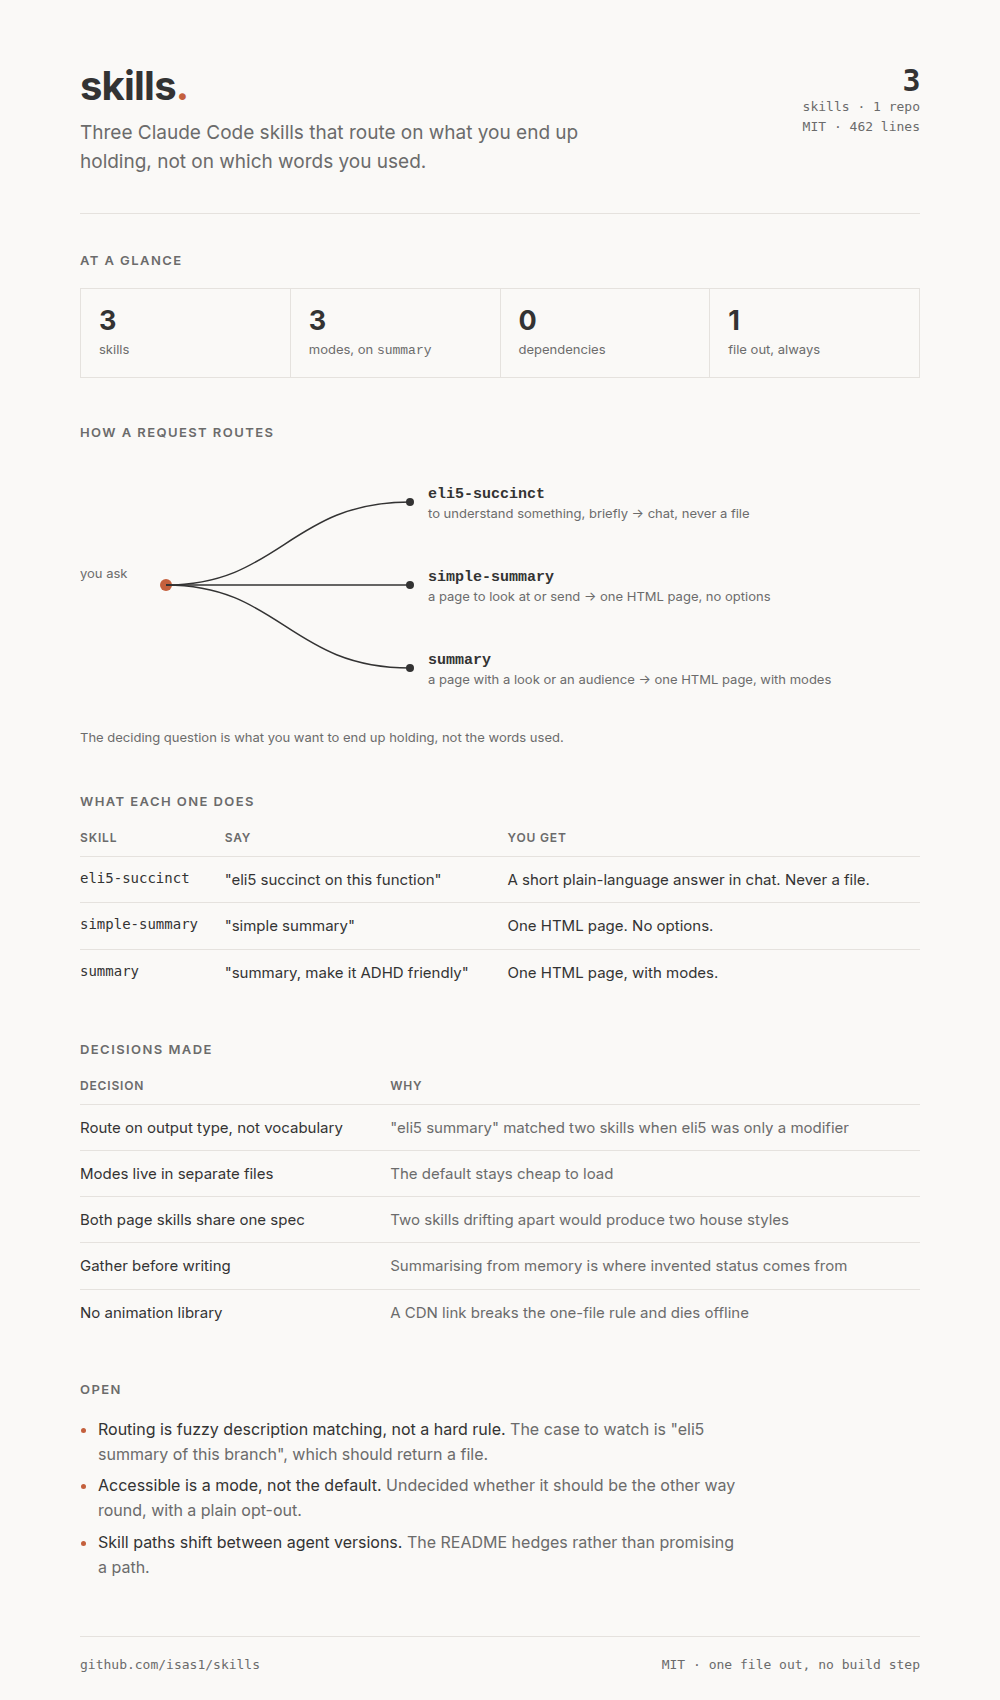
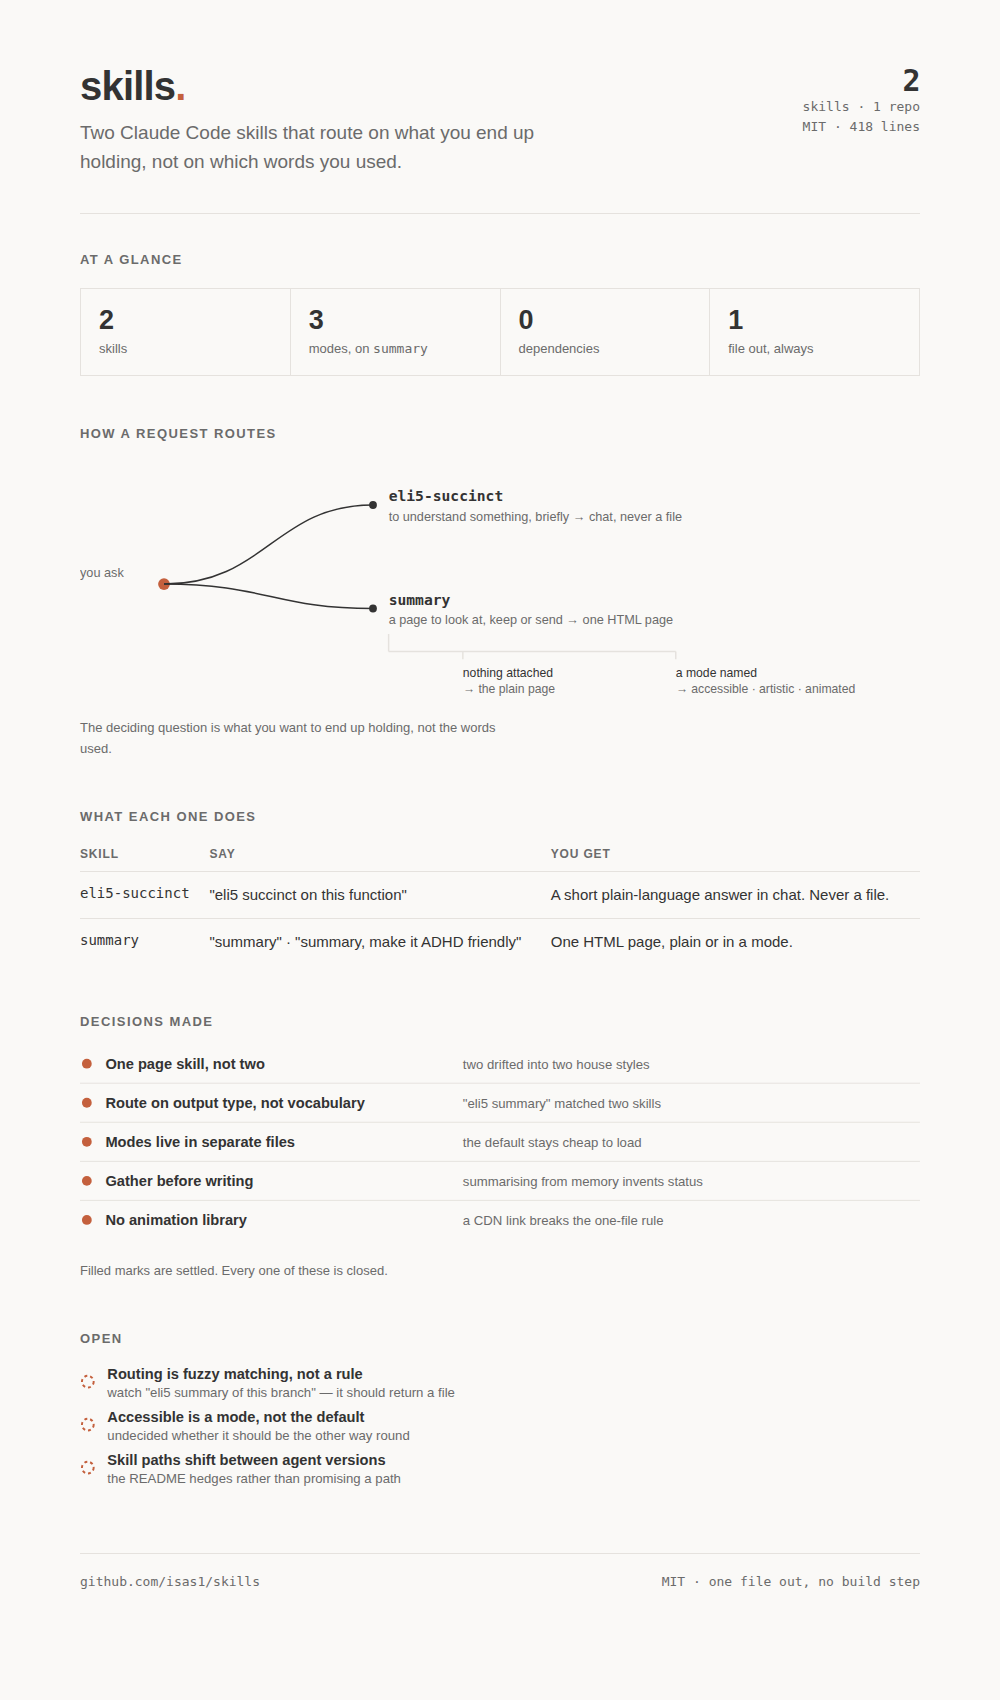
Refresh the example summary page for the two-skill layout
The README was updated when simple-summary merged into summary, but
docs/example-summary.html and its PNG were not. The page still said
"three skills", routed requests to simple-summary, and listed a
decision ("both page skills share one spec") that no longer exists.

Rebuild the page against the current repo and the current page spec:

- two skills, not three; summary now owns plain and moded asks alike,
  shown as a second branch under summary rather than a third skill
- "one page skill, not two" replaces the stale shared-spec decision
- line count refreshed to 418
- decisions and open items become mark rows instead of tables, so the
  page stops at one table and meets its own visual budget

PNG re-rendered from the HTML at 1000px wide.

Claude-Session: https://claude.ai/code/session_01YYGNUPXqemTCYjbvL19zYz

diff --git a/docs/example-summary.html b/docs/example-summary.html
@@ -6,29 +6,26 @@
 :root{
   --bg:#FAF9F7; --ink:#333333; --muted:#6B6B6B; --line:#E5E2DE;
   --surface:#F2EFEB; --accent:#C4603D;
-  --sans:-apple-system,BlinkMacSystemFont,"Segoe UI",Inter,Roboto,"Helvetica Neue",Arial,sans-serif;
-  --mono:ui-monospace,SFMono-Regular,"SF Mono",Menlo,Consolas,"DejaVu Sans Mono",monospace;
+  --sans:-apple-system,BlinkMacSystemFont,"Segoe UI",Roboto,"Noto Sans","Liberation Sans",Helvetica,Arial,sans-serif;
+  --mono:ui-monospace,"SF Mono","Cascadia Code","Roboto Mono","DejaVu Sans Mono",Menlo,Consolas,monospace;
 }
 *{box-sizing:border-box}
 body{margin:0;background:var(--bg);color:var(--ink);font-family:var(--sans);
      font-size:16px;line-height:1.55;-webkit-font-smoothing:antialiased}
 .page{max-width:920px;margin:0 auto;padding:64px 40px 80px}
-.measure{max-width:65ch}
 
-/* Z: title left, key fact right */
 .top{display:flex;justify-content:space-between;align-items:flex-start;gap:40px;flex-wrap:wrap}
 h1{font-size:40px;line-height:1.1;letter-spacing:-.02em;margin:0 0 10px;font-weight:700}
 h1 .dot{color:var(--accent)}
-.lede{font-size:19px;color:var(--muted);margin:0;max-width:46ch}
+.lede{font-size:19px;color:var(--muted);margin:0;max-width:44ch}
 .stamp{font-family:var(--mono);font-size:13px;color:var(--muted);text-align:right;white-space:nowrap}
 .stamp b{display:block;font-size:30px;color:var(--ink);font-weight:700;letter-spacing:-.02em;line-height:1.1}
 hr{border:0;border-top:1px solid var(--line);margin:36px 0}
 
 h2{font-size:13px;letter-spacing:.11em;text-transform:uppercase;color:var(--muted);
    font-weight:600;margin:0 0 18px}
-section{margin-top:44px}
+section{margin-top:48px}
 
-/* at a glance */
 .facts{display:grid;grid-template-columns:repeat(4,1fr);gap:1px;background:var(--line);
        border:1px solid var(--line)}
 .fact{background:var(--bg);padding:16px 18px}
@@ -36,25 +33,20 @@ section{margin-top:44px}
 .fact .l{font-size:13px;color:var(--muted);margin-top:3px}
 
 figure{margin:0}
-figcaption{font-size:13px;color:var(--muted);margin-top:10px}
+figcaption{font-size:13px;color:var(--muted);margin-top:10px;max-width:60ch}
+svg{display:block;max-width:100%;height:auto}
 
 table{border-collapse:collapse;width:100%;font-size:15px}
 th{text-align:left;font-size:12px;letter-spacing:.07em;text-transform:uppercase;
    color:var(--muted);font-weight:600;padding:0 14px 8px 0;border-bottom:1px solid var(--line)}
 td{padding:11px 14px 11px 0;border-bottom:1px solid var(--line);vertical-align:top}
 td.k{font-family:var(--mono);font-size:14px;white-space:nowrap}
-td.why{color:var(--muted)}
 tr:last-child td{border-bottom:0}
 
-ul{margin:0;padding-left:18px}
-li{margin-bottom:7px}
-li::marker{color:var(--accent)}
-.open li{color:var(--ink)}
-.open li span{color:var(--muted)}
-
-.foot{margin-top:56px;padding-top:18px;border-top:1px solid var(--line);
+.foot{margin-top:60px;padding-top:18px;border-top:1px solid var(--line);
       display:flex;justify-content:space-between;font-size:13px;color:var(--muted);
       font-family:var(--mono);gap:20px;flex-wrap:wrap}
+@media print{body{background:#fff}section{page-break-inside:avoid}}
 @media (max-width:720px){
   .page{padding:40px 20px 56px}
   .facts{grid-template-columns:repeat(2,1fr)}
@@ -67,9 +59,9 @@ li::marker{color:var(--accent)}
   <div class="top">
     <div>
       <h1>skills<span class="dot">.</span></h1>
-      <p class="lede">Three Claude Code skills that route on what you end up holding, not on which words you used.</p>
+      <p class="lede">Two Claude Code skills that route on what you end up holding, not on which words you used.</p>
     </div>
-    <div class="stamp"><b>3</b>skills · 1 repo<br>MIT · 462 lines</div>
+    <div class="stamp"><b>2</b>skills · 1 repo<br>MIT · 418 lines</div>
   </div>
 
   <hr>
@@ -77,7 +69,7 @@ li::marker{color:var(--accent)}
   <section style="margin-top:0">
     <h2>At a glance</h2>
     <div class="facts">
-      <div class="fact"><div class="n">3</div><div class="l">skills</div></div>
+      <div class="fact"><div class="n">2</div><div class="l">skills</div></div>
       <div class="fact"><div class="n">3</div><div class="l">modes, on <code>summary</code></div></div>
       <div class="fact"><div class="n">0</div><div class="l">dependencies</div></div>
       <div class="fact"><div class="n">1</div><div class="l">file out, always</div></div>
@@ -87,23 +79,29 @@ li::marker{color:var(--accent)}
   <section>
     <h2>How a request routes</h2>
     <figure>
-      <svg viewBox="0 0 840 250" width="100%" role="img"
-           aria-label="One request branches to three skills: eli5-succinct returns a chat answer, simple-summary returns one page, summary returns one page with modes.">
-        <g font-family="-apple-system,BlinkMacSystemFont,Segoe UI,Inter,sans-serif">
+      <svg viewBox="0 0 860 252" role="img"
+           aria-label="One request branches two ways. eli5-succinct returns a chat answer and never a file. summary returns one HTML page: plain when nothing is attached, or in accessible, artistic or animated mode when a mode is named.">
+        <g font-family="-apple-system,BlinkMacSystemFont,Segoe UI,Roboto,Helvetica,Arial,sans-serif">
           <text x="0" y="118" font-size="13" fill="#6B6B6B">you ask</text>
           <circle cx="86" cy="125" r="6" fill="#C4603D"/>
-          <path d="M86 125 C 200 125, 210 42, 330 42"  stroke="#333" stroke-width="1.5" fill="none"/>
-          <path d="M86 125 C 200 125, 210 125, 330 125" stroke="#333" stroke-width="1.5" fill="none"/>
-          <path d="M86 125 C 200 125, 210 208, 330 208" stroke="#333" stroke-width="1.5" fill="none"/>
-          <circle cx="330" cy="42" r="4" fill="#333"/>
-          <circle cx="330" cy="125" r="4" fill="#333"/>
-          <circle cx="330" cy="208" r="4" fill="#333"/>
-          <text x="348" y="38"  font-size="15" font-weight="600" fill="#333" font-family="ui-monospace,Menlo,monospace">eli5-succinct</text>
-          <text x="348" y="58"  font-size="13" fill="#6B6B6B">to understand something, briefly → chat, never a file</text>
-          <text x="348" y="121" font-size="15" font-weight="600" fill="#333" font-family="ui-monospace,Menlo,monospace">simple-summary</text>
-          <text x="348" y="141" font-size="13" fill="#6B6B6B">a page to look at or send → one HTML page, no options</text>
-          <text x="348" y="204" font-size="15" font-weight="600" fill="#333" font-family="ui-monospace,Menlo,monospace">summary</text>
-          <text x="348" y="224" font-size="13" fill="#6B6B6B">a page with a look or an audience → one HTML page, with modes</text>
+
+          <path d="M86 125 C 190 125, 200 44, 300 44"  stroke="#333" stroke-width="1.5" fill="none"/>
+          <path d="M86 125 C 190 125, 200 150, 300 150" stroke="#333" stroke-width="1.5" fill="none"/>
+          <circle cx="300" cy="44" r="4" fill="#333"/>
+          <circle cx="300" cy="150" r="4" fill="#333"/>
+
+          <text x="316" y="40" font-size="15" font-weight="600" fill="#333" font-family="ui-monospace,Menlo,Consolas,monospace">eli5-succinct</text>
+          <text x="316" y="60" font-size="13" fill="#6B6B6B">to understand something, briefly → chat, never a file</text>
+
+          <text x="316" y="146" font-size="15" font-weight="600" fill="#333" font-family="ui-monospace,Menlo,Consolas,monospace">summary</text>
+          <text x="316" y="166" font-size="13" fill="#6B6B6B">a page to look at, keep or send → one HTML page</text>
+
+          <path d="M316 176 L316 194 M316 194 L610 194 M392 194 L392 202 M610 194 L610 202"
+                stroke="#E5E2DE" stroke-width="1.5" fill="none"/>
+          <text x="392" y="220" font-size="12.5" fill="#333">nothing attached</text>
+          <text x="392" y="237" font-size="12.5" fill="#6B6B6B">→ the plain page</text>
+          <text x="610" y="220" font-size="12.5" fill="#333">a mode named</text>
+          <text x="610" y="237" font-size="12.5" fill="#6B6B6B">→ accessible · artistic · animated</text>
         </g>
       </svg>
       <figcaption>The deciding question is what you want to end up holding, not the words used.</figcaption>
@@ -115,30 +113,66 @@ li::marker{color:var(--accent)}
     <table>
       <tr><th>Skill</th><th>Say</th><th>You get</th></tr>
       <tr><td class="k">eli5-succinct</td><td>"eli5 succinct on this function"</td><td>A short plain-language answer in chat. Never a file.</td></tr>
-      <tr><td class="k">simple-summary</td><td>"simple summary"</td><td>One HTML page. No options.</td></tr>
-      <tr><td class="k">summary</td><td>"summary, make it ADHD friendly"</td><td>One HTML page, with modes.</td></tr>
+      <tr><td class="k">summary</td><td>"summary" · "summary, make it ADHD friendly"</td><td>One HTML page, plain or in a mode.</td></tr>
     </table>
   </section>
 
   <section>
     <h2>Decisions made</h2>
-    <table>
-      <tr><th>Decision</th><th>Why</th></tr>
-      <tr><td>Route on output type, not vocabulary</td><td class="why">"eli5 summary" matched two skills when eli5 was only a modifier</td></tr>
-      <tr><td>Modes live in separate files</td><td class="why">The default stays cheap to load</td></tr>
-      <tr><td>Both page skills share one spec</td><td class="why">Two skills drifting apart would produce two house styles</td></tr>
-      <tr><td>Gather before writing</td><td class="why">Summarising from memory is where invented status comes from</td></tr>
-      <tr><td>No animation library</td><td class="why">A CDN link breaks the one-file rule and dies offline</td></tr>
-    </table>
+    <figure>
+      <svg viewBox="0 0 860 206" role="img"
+           aria-label="Five settled decisions. One page skill, not two, because two drifted into two house styles. Route on output type, not vocabulary, because eli5 summary matched two skills. Modes live in separate files so the default stays cheap to load. Gather before writing, because summarising from memory invents status. No animation library, because a CDN link breaks the one-file rule.">
+        <g font-family="-apple-system,BlinkMacSystemFont,Segoe UI,Roboto,Helvetica,Arial,sans-serif">
+          <g fill="#C4603D">
+            <circle cx="7" cy="14" r="5"/><circle cx="7" cy="54" r="5"/><circle cx="7" cy="94" r="5"/>
+            <circle cx="7" cy="134" r="5"/><circle cx="7" cy="174" r="5"/>
+          </g>
+          <g font-size="15" fill="#333" font-weight="600">
+            <text x="26" y="19">One page skill, not two</text>
+            <text x="26" y="59">Route on output type, not vocabulary</text>
+            <text x="26" y="99">Modes live in separate files</text>
+            <text x="26" y="139">Gather before writing</text>
+            <text x="26" y="179">No animation library</text>
+          </g>
+          <g font-size="13.5" fill="#6B6B6B">
+            <text x="392" y="19">two drifted into two house styles</text>
+            <text x="392" y="59">"eli5 summary" matched two skills</text>
+            <text x="392" y="99">the default stays cheap to load</text>
+            <text x="392" y="139">summarising from memory invents status</text>
+            <text x="392" y="179">a CDN link breaks the one-file rule</text>
+          </g>
+          <g stroke="#E5E2DE">
+            <line x1="0" y1="34" x2="860" y2="34"/><line x1="0" y1="74" x2="860" y2="74"/>
+            <line x1="0" y1="114" x2="860" y2="114"/><line x1="0" y1="154" x2="860" y2="154"/>
+          </g>
+        </g>
+      </svg>
+      <figcaption>Filled marks are settled. Every one of these is closed.</figcaption>
+    </figure>
   </section>
 
-  <section class="open">
+  <section>
     <h2>Open</h2>
-    <ul class="measure">
-      <li>Routing is fuzzy description matching, not a hard rule. <span>The case to watch is "eli5 summary of this branch", which should return a file.</span></li>
-      <li>Accessible is a mode, not the default. <span>Undecided whether it should be the other way round, with a plain opt-out.</span></li>
-      <li>Skill paths shift between agent versions. <span>The README hedges rather than promising a path.</span></li>
-    </ul>
+    <figure>
+      <svg viewBox="0 0 860 128" role="img"
+           aria-label="Three open questions. Routing is fuzzy description matching, not a hard rule: the case to watch is eli5 summary of this branch, which should return a file. Accessible is a mode, not the default, and it is undecided whether that should be reversed. Skill paths shift between agent versions, so the README hedges.">
+        <g font-family="-apple-system,BlinkMacSystemFont,Segoe UI,Roboto,Helvetica,Arial,sans-serif">
+          <g fill="none" stroke="#C4603D" stroke-width="2" stroke-dasharray="3 3">
+            <circle cx="8" cy="14" r="6"/><circle cx="8" cy="58" r="6"/><circle cx="8" cy="102" r="6"/>
+          </g>
+          <g font-size="15" fill="#333" font-weight="600">
+            <text x="28" y="11">Routing is fuzzy matching, not a rule</text>
+            <text x="28" y="55">Accessible is a mode, not the default</text>
+            <text x="28" y="99">Skill paths shift between agent versions</text>
+          </g>
+          <g font-size="13.5" fill="#6B6B6B">
+            <text x="28" y="30">watch "eli5 summary of this branch" — it should return a file</text>
+            <text x="28" y="74">undecided whether it should be the other way round</text>
+            <text x="28" y="118">the README hedges rather than promising a path</text>
+          </g>
+        </g>
+      </svg>
+    </figure>
   </section>
 
   <div class="foot">
